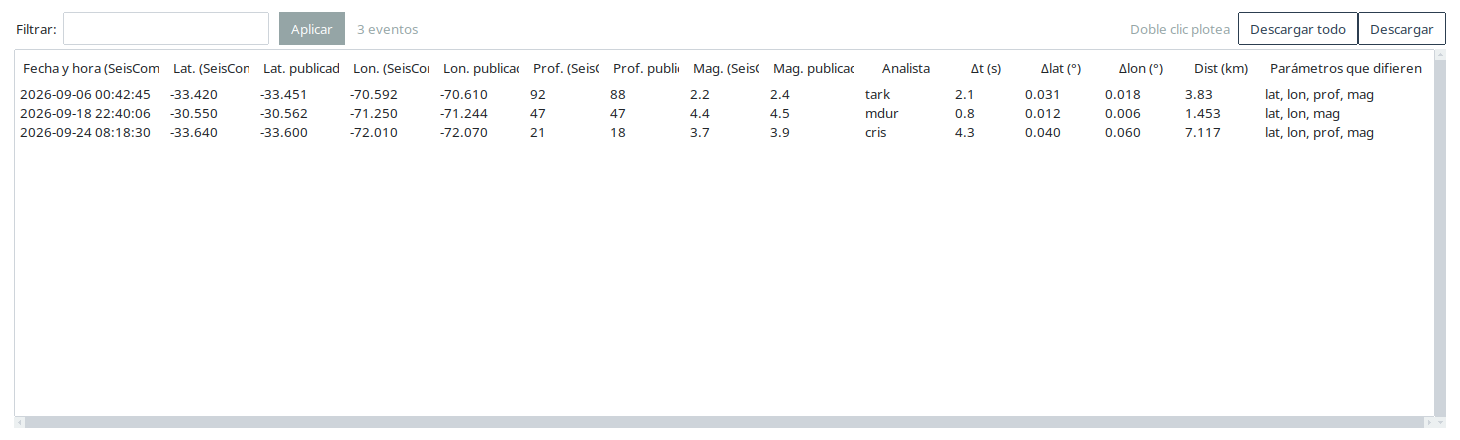
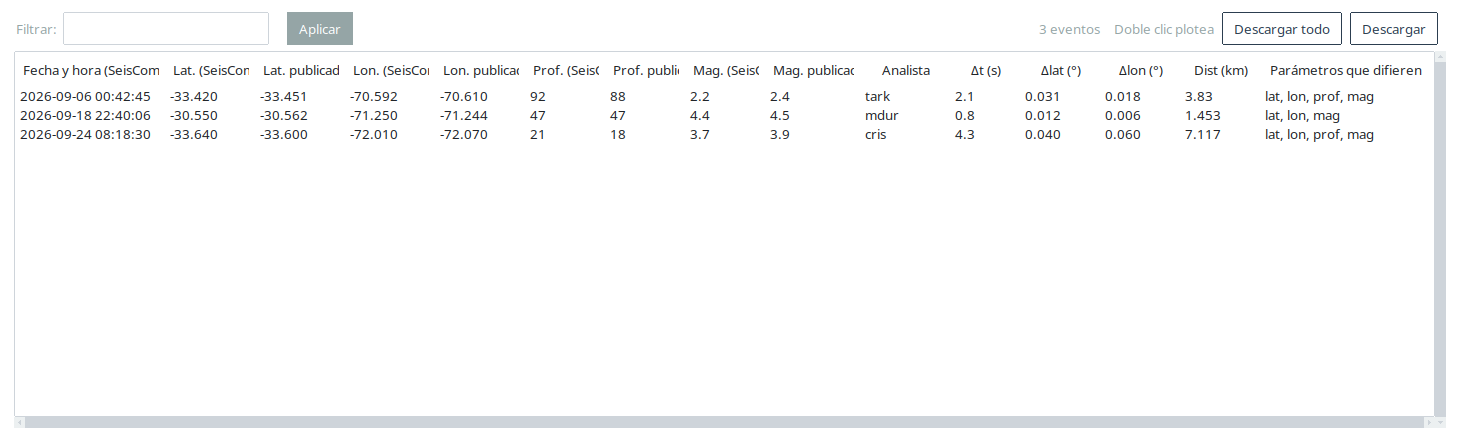
refactor(revisa_seiscomp): migra No actualizados a abrir_tabla
abrir_no_actualizados queda como capa fina sobre abrir_tabla: define columnas,
valores, orden y el ploteo local vs publicado; la barra, el árbol, los filtros
con «Aplicar» y las descargas salen del camino común. Misma interfaz y
comportamiento (incluido «Doble clic plotea», «Descargar» y «Descargar todo»).

diff --git a/revisa_seiscomp.py b/revisa_seiscomp.py
@@ -2976,6 +2976,7 @@ def abrir_tabla(contenedor, filas, columnas, valores, *,
                 descarga_todo=False,
                 columnas_exportar=None, valores_exportar=None,
                 verbo_descarga="Descargados",
+                texto_filtro="Mostrando",
                 texto_detalle=None, extras_izquierda=None, extras_derecha=None,
                 al_llenar=None, formato_estado=None):
     """
@@ -3030,7 +3031,7 @@ def abrir_tabla(contenedor, filas, columnas, valores, *,
     barra.pack(fill="x", pady=(0, 6))
     entradas = {}
     if "texto" in filtros:
-        ttk.Label(barra, text="Mostrando",
+        ttk.Label(barra, text=texto_filtro,
                   bootstyle="secondary").pack(side="left")
         entradas["texto"] = ttk.Entry(barra, width=24)
         entradas["texto"].pack(side="left", padx=(4, 10))
@@ -3468,11 +3469,10 @@ def abrir_no_actualizados(contenedor, fuente, log=None, cwd=None):
     del análisis: no consulta nada ni recalcula el cruce, solo lo muestra. La
     fuente es 'seisan' o 'seiscomp'.
 
-    Se ordena haciendo clic en cualquier encabezado (el clic repetido invierte
-    el sentido) y se filtra por texto en cualquier columna. Las dos descargas
-    van a descargas/: la normal arma el archivo con el filtro y el orden puestos,
-    y «Descargar todo» lo escribe sin filtrar, que es lo que uno quiere para
-    repartir el listado completo.
+    Se apoya en abrir_tabla: ordena por encabezado (el clic repetido invierte el
+    sentido), filtra por texto con «Aplicar» y descarga a descargas/. «Descargar»
+    baja con el filtro y el orden puestos; «Descargar todo» lo escribe sin
+    filtrar, que es lo que uno reparte.
     """
     log = log or (lambda _t: None)
     if contenedor is None:
@@ -3488,51 +3488,12 @@ def abrir_no_actualizados(contenedor, fuente, log=None, cwd=None):
     except ImportError:
         return False
 
-    for hijo in contenedor.winfo_children():
-        hijo.destroy()
-
-    estado = {"orden": None, "desc": False, "elegidas": list(filas)}
-
-    marco = ttk.Frame(contenedor)
-    marco.pack(fill="both", expand=True, padx=8, pady=6)
-
-    # --- Controles: filtro, estado y descargas ---
-    marco_controles = ttk.Frame(marco)
-    marco_controles.pack(fill="x", pady=(0, 4))
-    ttk.Label(marco_controles, text="Filtrar:").pack(side="left")
-    caja_filtro = ttk.Entry(marco_controles, width=24)
-    caja_filtro.pack(side="left", padx=(4, 10))
-    # El filtro se aplica con el botón «Aplicar» (o Enter), no en cada tecla:
-    # con listados grandes, re-filtrar al teclear era costoso.
-    ttk.Button(marco_controles, text="Aplicar", bootstyle="secondary",
-               command=lambda: _llenar()).pack(side="left", padx=(0, 10))
-    etiqueta_estado = ttk.Label(marco_controles, text="",
-                               bootstyle="secondary")
-    etiqueta_estado.pack(side="left")
-
-    def _al_descargar(todas=False):
-        elegidas = filas if todas else estado["elegidas"]
-        if not elegidas:
-            return
-        ruta = _exportar_listado(elegidas, _valores_no_actualizado,
-                                 _columnas_no_actualizado(fuente), cwd,
-                                 "no actualizados %s" % fuente,
-                                 padre=contenedor)
-        if ruta is None:
-            return
-        aviso = "Descargados %d eventos a %s" % (len(elegidas),
-                                                  os.path.basename(ruta))
-        etiqueta_estado.config(text=aviso)
-        log(aviso)
+    columnas = _columnas_no_actualizado(fuente)
 
     def _ver_mapa(_evento=None):
         """Abre planta+perfil de la solución local vs la publicada del evento."""
-        seleccion = arbol.selection()
-        if not seleccion:
-            return
-        try:
-            fila = estado["elegidas"][int(seleccion[0])]
-        except (ValueError, IndexError):
+        fila = tabla["fila_actual"]()
+        if fila is None:
             return
 
         def _num(clave):
@@ -3542,7 +3503,7 @@ def abrir_no_actualizados(contenedor, fuente, log=None, cwd=None):
                 return None
 
         if _num("lat_local") is None or _num("lon_local") is None:
-            etiqueta_estado.config(text="El evento no tiene coordenadas.")
+            tabla["etiqueta_estado"].config(text="El evento no tiene coordenadas.")
             return
         local = {
             "rol": "local", "fecha hora": fila.get("fecha_local", ""),
@@ -3568,93 +3529,24 @@ def abrir_no_actualizados(contenedor, fuente, log=None, cwd=None):
             plotear.abrir_eventos(eventos, fuente)
         except Exception as e:
             log("[error] no se pudo plotear: %s" % e)
-            etiqueta_estado.config(text="No se pudo plotear el evento.")
+            tabla["etiqueta_estado"].config(text="No se pudo plotear el evento.")
 
-    boton_descargar = ttk.Button(marco_controles, text="Descargar",
-                                 bootstyle="primary-outline",
-                                 command=_al_descargar)
-    boton_descargar.pack(side="right")
-    ttk.Button(marco_controles, text="Descargar todo",
-               bootstyle="primary-outline",
-               command=lambda: _al_descargar(todas=True)).pack(
-                   side="right", padx=(6, 0))
-    # Aviso corto: el detalle se abre con doble clic, no hay botón.
-    ttk.Label(marco_controles, text="Doble clic plotea",
-              bootstyle="secondary").pack(side="right", padx=(10, 0))
+    # La tabla lleva el padding del marco, como antes del refactor.
+    marco = ttk.Frame(contenedor)
+    marco.pack(fill="both", expand=True, padx=8, pady=6)
+    tabla = abrir_tabla(marco, filas, columnas, _valores_no_actualizado,
+                        cwd=cwd, log=log, filtros=("texto",),
+                        claves_orden=_claves_numericas(_COLUMNAS_ORDENABLES),
+                        iid_por_id=False, etiqueta="no actualizados %s" % fuente,
+                        descarga_texto="Descargar",
+                        descarga_bootstyle="primary-outline", descarga_todo=True,
+                        texto_filtro="Filtrar:", texto_detalle="Doble clic plotea")
 
-    # --- Tabla ---
-    marco_tabla = ttk.Frame(marco)
-    marco_tabla.pack(fill="both", expand=True)
-    claves = [c for c, _, _ in COLUMNAS_NO_ACTUALIZADO]
-    arbol = ttk.Treeview(marco_tabla, columns=claves, show="headings",
-                         selectmode="browse")
-    for clave, titulo, ancho in _columnas_no_actualizado(fuente):
-        arbol.heading(clave, text=titulo,
-                      command=lambda c=clave: _al_ordenar(c))
-        arbol.column(clave, width=ancho, minwidth=45, stretch=False)
-    barra_v = ttk.Scrollbar(marco_tabla, orient="vertical",
-                            command=arbol.yview)
-    arbol.configure(yscrollcommand=barra_v.set)
-    barra_h = ttk.Scrollbar(marco_tabla, orient="horizontal",
-                            command=arbol.xview)
-    arbol.configure(xscrollcommand=barra_h.set)
-    # Barras antes que el árbol (ver _construir_arbol_fases).
-    barra_v.pack(side="right", fill="y")
-    barra_h.pack(side="bottom", fill="x")
-    arbol.pack(side="left", fill="both", expand=True)
-
-    # Doble clic (o Enter con la fila elegida) abre planta+perfil del evento.
+    arbol = tabla["arbol"]
     arbol.bind("<Double-1>", _ver_mapa)
     arbol.bind("<Return>", _ver_mapa)
 
-    # Cómo ordenar cada columna: las numéricas por su propio nombre, el resto
-    # por texto. La columna visible ya es la clave cruda.
-    claves_orden = _claves_numericas(_COLUMNAS_ORDENABLES)
-
-    def _coincide(fila, texto):
-        """True si el texto buscado aparece en alguna celda de la fila."""
-        if not texto:
-            return True
-        return texto in " ".join(str(v).lower() for v in fila.values())
-
-    def _al_ordenar(columna):
-        if estado["orden"] == columna:
-            estado["desc"] = not estado["desc"]
-        else:
-            estado["orden"] = columna
-            estado["desc"] = False
-        _llenar()
-
-    def _elegidas():
-        texto = caja_filtro.get().strip().lower()
-        return _ordenar_eventos([f for f in filas if _coincide(f, texto)],
-                                estado["orden"], estado["desc"], claves_orden)
-
-    def _llenar(_evento=None):
-        for item in arbol.get_children():
-            arbol.delete(item)
-        elegidas = _elegidas()
-        estado["elegidas"] = elegidas
-        if len(elegidas) == len(filas):
-            etiqueta_estado.config(text="%d evento%s"
-                                    % (len(filas),
-                                       "" if len(filas) == 1 else "s"))
-        else:
-            etiqueta_estado.config(text="%d de %d eventos"
-                                    % (len(elegidas), len(filas)))
-        # Sin filas el botón queda apagado: un botón prendido que no hace nada
-        # es peor que uno apagado.
-        boton_descargar.configure(state="normal" if elegidas else "disabled")
-        for indice, fila in enumerate(elegidas):
-            arbol.insert("", "end", iid=str(indice),
-                         values=_valores_no_actualizado(fila))
-
-    # Los filtros se aplican con el botón «Aplicar» (o Enter), no en cada tecla.
-    caja_filtro.bind("<Return>", _llenar)
-    _llenar()
-
-    log("No actualizados de %s: %d eventos."
-        % (fuente, len(filas)))
+    log("No actualizados de %s: %d eventos." % (fuente, len(filas)))
     return True
 
 
